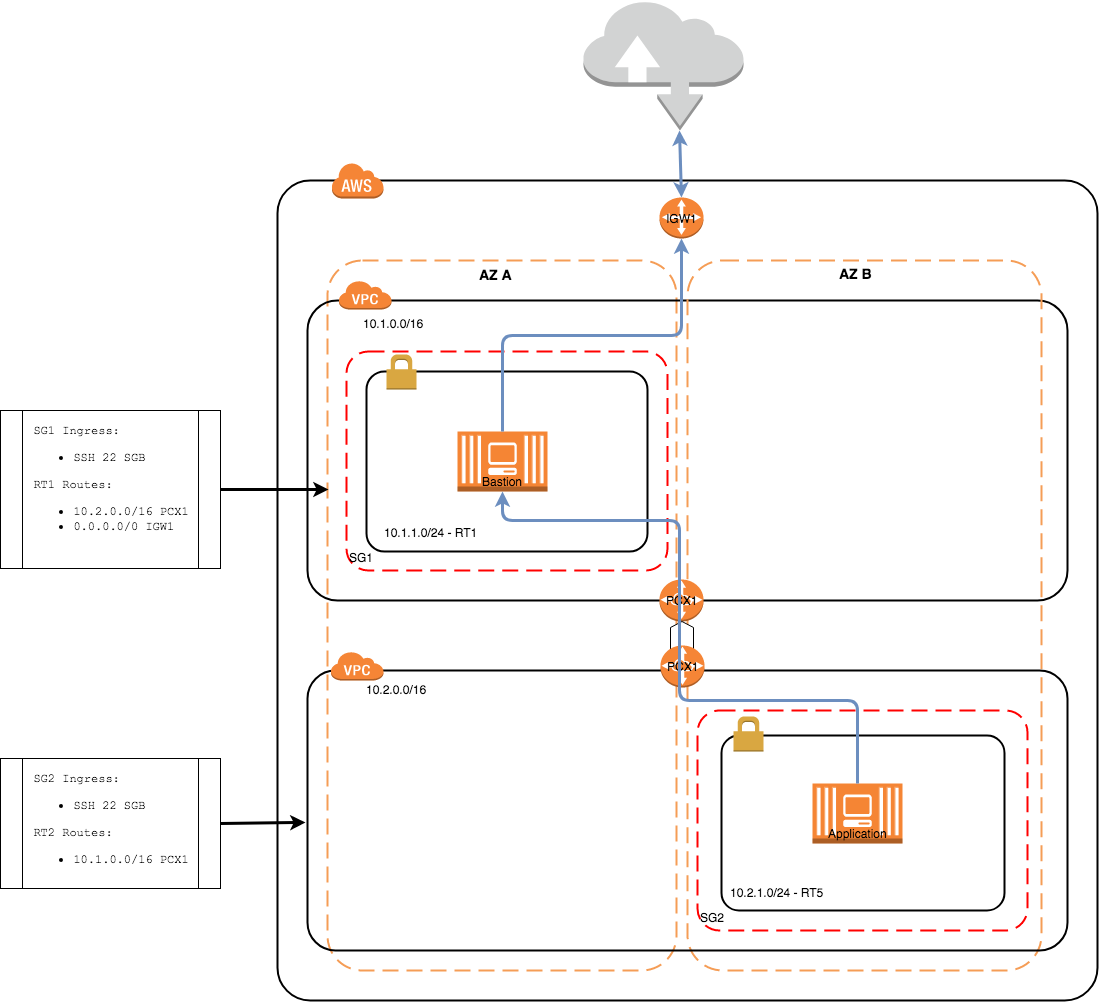
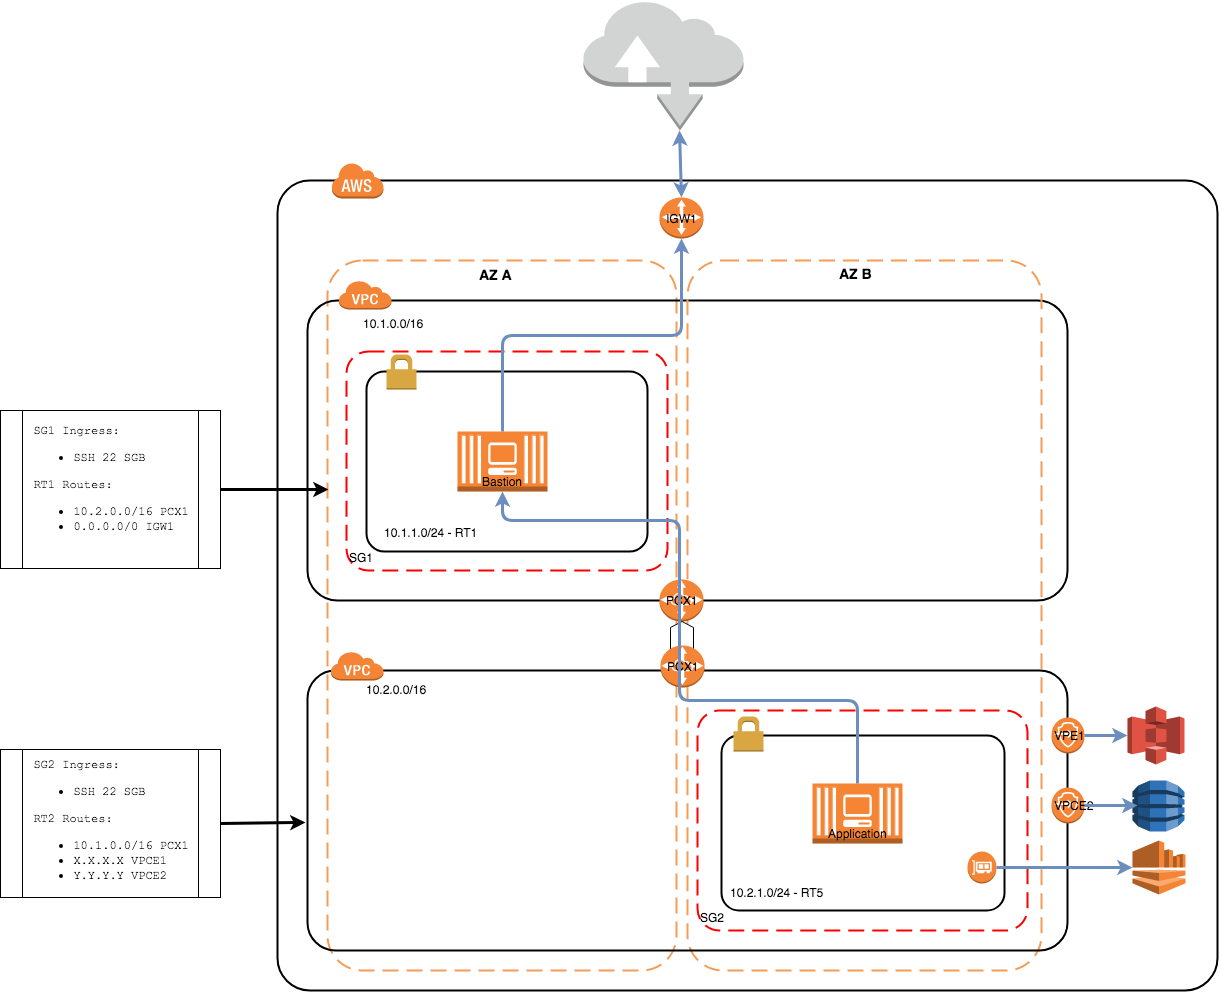
Added VPC endpoint gateways and interface plus routing

Changed region(s): [[0.0, 0.0, 1.0, 1.0], [0.9281, 0.5938, 0.9591, 0.625], [0.9281, 0.2812, 0.9591, 0.3125]]

diff --git a/README.md b/README.md
@@ -1,6 +1,7 @@
 # AWS / Terraform Bastion Network
 
 This project puts together a general purpose quarantined private VPC peered to a public VPC accessible only from a bastion host.
+The quarantined private VPC is configured with 2 VPC endpoint gateways for DynamoDB and S3 and an interface gateway for Kinesis Streams.
 
 The provisioning of all the infrastructure and services is done using [Terraform](https://www.terraform.io/).
 All compute servers use the T2 micros with Amazon Linux, note that the architecture shown below requires a region with a minimum of 2 availability zones.
